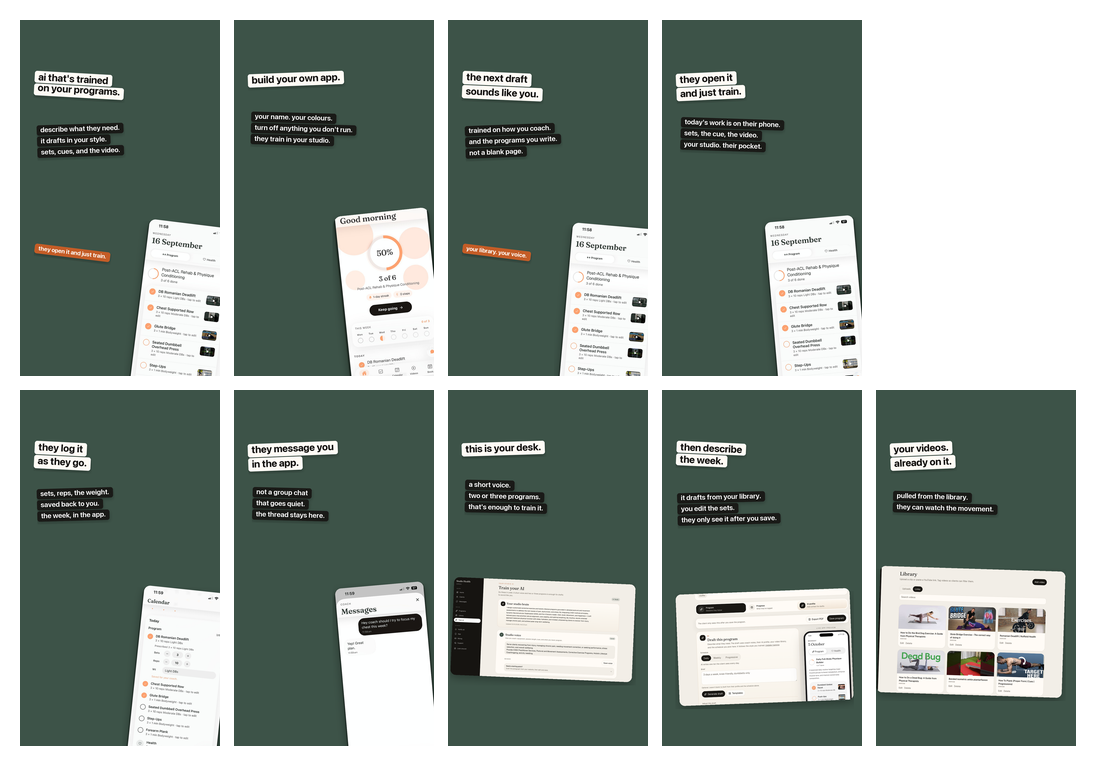
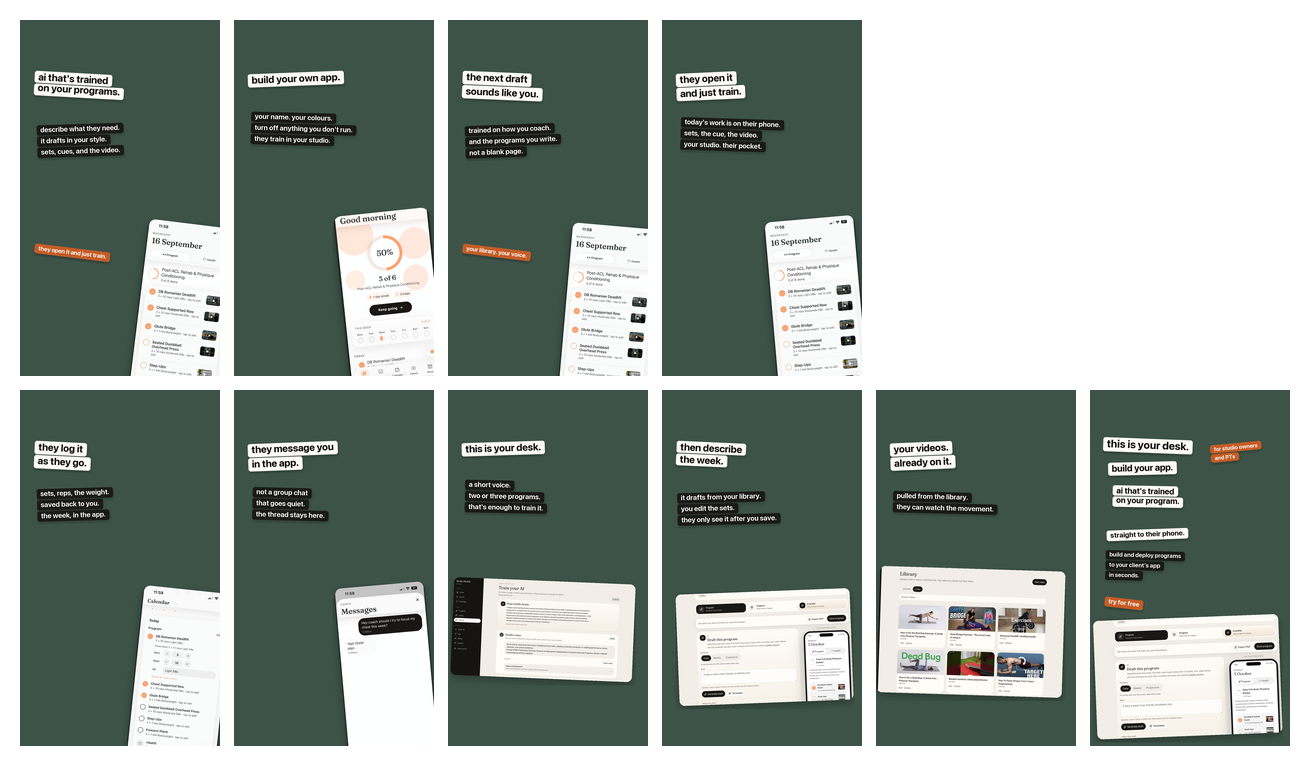
docs

diff --git a/scripts/instagram/story.py b/scripts/instagram/story.py
@@ -50,6 +50,22 @@ def app_shot(name: str, top: int, width: int, inner_top: int = 0, radius: int = 
     return phone
 
 
+def client_program(width: int = 520) -> Image.Image:
+    """The live client program on the right of the draft screen."""
+    src = Image.open(DESK / "02-program-draft.png").convert("RGBA")
+    crop = src.crop((1172, 488, 1478, 1000))
+    im = ig.scale_w(crop, width)
+    radius = round(width * 0.11)
+    mask = Image.new("L", im.size, 0)
+    ImageDraw.Draw(mask).rounded_rectangle(
+        (0, 0, im.width - 1, im.height - 1),
+        radius=radius,
+        fill=255,
+    )
+    im.putalpha(mask)
+    return im
+
+
 def desk_shot(name: str, box: tuple[int, int, int, int], width: int, radius: int = 28) -> Image.Image:
     """A desktop grab, cropped to the useful part and rounded like a sticker."""
     src = Image.open(DESK / name).convert("RGBA")
@@ -161,6 +177,56 @@ def frame(
             sticker(aside, ig.sans(32, 680), PAPER, ACCENT, -7),
             aside_at,
         )
+    return im
+
+
+def straight():
+    """One story: the path, then the line, then the client program."""
+    im = solid(ig.FOREST)
+    paste(
+        im,
+        sticker(
+            ["for studio owners", "and PTs"],
+            ig.sans(30, 680),
+            PAPER,
+            ACCENT,
+            5.5,
+        ),
+        (620, 248),
+    )
+    steps = [
+        (["this is your desk."], 58, -2.2, (44, 230)),
+        (["build your app."], 50, 1.4, (72, 360)),
+        (["ai that's trained", "on your program."], 44, -1.1, (96, 490)),
+        (["straight to their phone."], 38, 2.0, (64, 720)),
+    ]
+    for lines, size, angle, xy in steps:
+        paste(im, sticker(lines, ig.sans(size, 720), INK, PAPER, angle), xy)
+    paste(
+        im,
+        sticker(
+            [
+                "build and deploy programs",
+                "to your client's app",
+                "in seconds.",
+            ],
+            ig.sans(32, 640),
+            WHITE,
+            (24, 22, 20, 235),
+            -1.4,
+        ),
+        (56, 840),
+    )
+    paste(
+        im,
+        sticker(["try for free"], ig.sans(34, 700), PAPER, ACCENT, -6.5),
+        (48, 1088),
+    )
+    paste(
+        im,
+        shadowed(desk_shot("02-program-draft.png", (260, 200, 1480, 980), 1000), 2.2),
+        (-16, 1180),
+    )
     return im
 
 
@@ -330,16 +396,18 @@ def main():
                 grab=desk_shot("04-video-library.png", (250, 0, 1600, 920), 1000),
             ),
         ),
+        ("10-straight.png", straight()),
     ]
     cell_w = 200
     cell_h = round(cell_w * H / W)
     gap = 14
     pad = 20
     rows = [slides[:4], slides[4:]]
+    cols = max(len(row) for row in rows)
     board = Image.new(
         "RGB",
         (
-            pad * 2 + max(len(row) for row in rows) * cell_w + 4 * gap,
+            pad * 2 + cols * cell_w + (cols - 1) * gap,
             pad * 2 + len(rows) * cell_h + gap,
         ),
         (255, 255, 255),

diff --git a/scripts/instagram/captions.md b/scripts/instagram/captions.md
@@ -87,3 +87,6 @@ Then describe the week. It drafts from your library. You edit the sets. They onl
 
 **09 — desk, library** (`stories/09-desk-library.png`)
 Your videos. Already on it. Pulled from the library. They can watch the movement.
+
+**10 — straight** (`stories/10-straight.png`)
+For studio owners and PTs. This is your desk. Build your app. AI that's trained on your program. Straight to their phone. Build and deploy programs to your client's app in seconds. Try for free.
